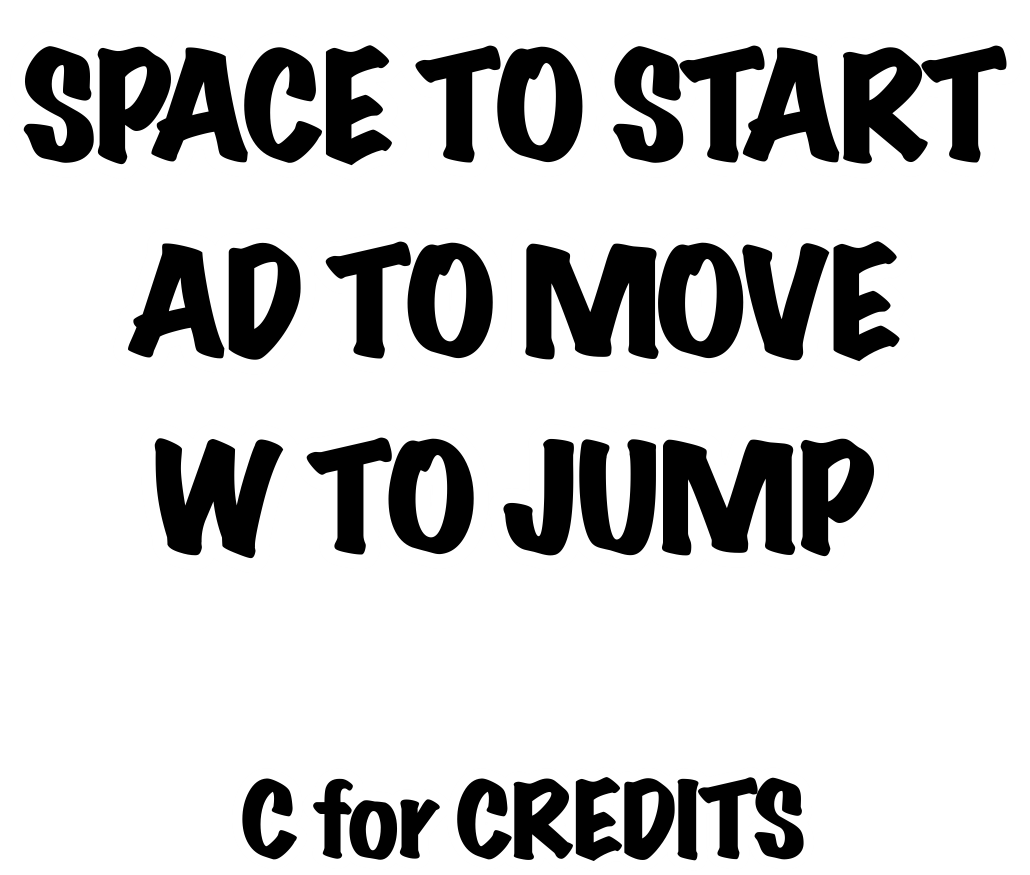
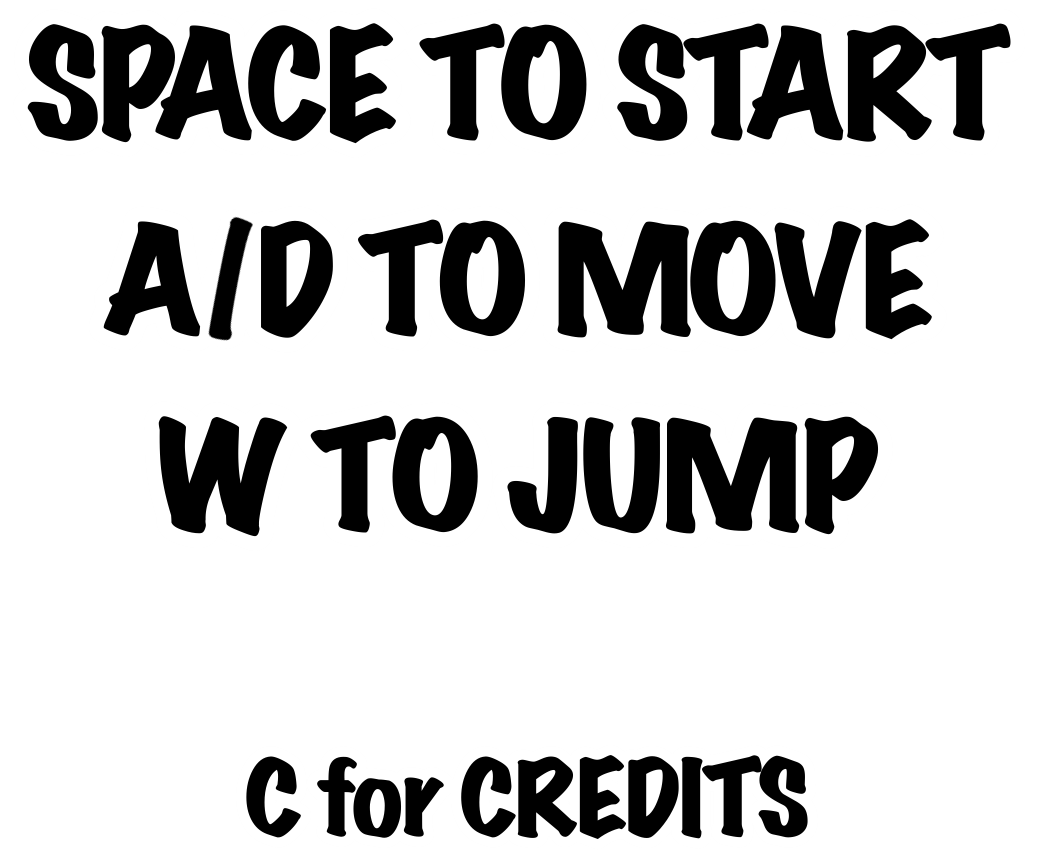
add game over scene

diff --git a/src/scenes/GameOver.js b/src/scenes/GameOver.js
@@ -1,0 +1,42 @@
+class GameOver extends Phaser.Scene {
+    constructor() {
+        super('gameOverScene');
+    }
+
+    create() {
+		this.waveGroup = this.physics.add.group()
+
+		this.shadow = this.add.sprite(0, 0, "shadow").setOrigin(0.5, 0.5)
+		this.shadow.setScale((window.innerHeight/378)/5)
+		this.shadow.setPosition(window.innerWidth / 2, (window.innerHeight / 4)*3)
+
+		this.deathSprite = this.add.physics.sprite(0,0,"playerDeath")
+		this.deathSprite.setScale((window.innerHeight/378)/5)
+		this.deathSprite.setPosition(this.shadow.x, this.shadow.y)
+
+		this.text = this.add.sprite(0, 0, "gameOver").setOrigin(0.5, 0.5)
+	    this.text.setScale((window.innerHeight/271)/5)
+		this.text.setPosition(window.innerWidth / 2, window.innerHeight / 4)
+
+		this.wave = new Wave(this, -6000, window.innerHeight,"greatWave", this.waveGroup)
+
+		
+        this.backKey = this.input.keyboard.addKey(Phaser.Input.Keyboard.KeyCodes.SPACE)
+
+		this.physics.add.collider(this.waveGroup, this.waveGroup,(obj1, obj2) => {
+			 
+		})
+    }
+
+    update(time, dt) {
+        if (Phaser.Input.Keyboard.JustDown(this.backKey)) {      
+          this.scene.start('menuScene')    
+        }
+
+		
+		//is.deathSprite.setVelocity(0)
+		this.deathSprite.update()
+		//is.deathSprite.setVelocity(0)
+		this.wave.update()
+    }
+}

diff --git a/src/scenes/Play.js b/src/scenes/Play.js
@@ -38,6 +38,9 @@ class Play extends Phaser.Scene {
 		this.debris = new Debris(this, 1000,  window.innerHeight-this.sand.displayHeight, this.staticGroup)
 
 		this.player = new Player(this, 200, window.innerHeight - (window.innerHeight / 6), this.objects)
+
+		this.warningSigns = this.add.sprite(0,0,'warningSigns').setPosition(window.innerWidth-(window.innerWidth-100), this.player.y-25).setScale(0.3)
+
 		this.wave = new Wave(this, -6000, window.innerHeight,"greatWave", this.waveGroup)
 
 
@@ -61,7 +64,7 @@ class Play extends Phaser.Scene {
 
 		this.physics.add.collider(this.player, this.waveGroup, (player, wave) => {
 			this.waveSFX.play()
-			this.scene.start('menuScene') //placeholder for what dying does
+			this.scene.start('gameOverScene') 
 		})
 
 

diff --git a/src/scenes/Load.js b/src/scenes/Load.js
@@ -28,7 +28,10 @@ class Load extends Phaser.Scene {
 		this.load.image('warningSigns', './assets/warningSigns.png')
 		this.load.image('mechSign', './assets/mechanicSign.png')
 	
-
+		// game over assets
+		this.load.image('playerDeath', './assets/playerDeath.png')
+		this.load.image('shadow', './assets/Shadow.png')
+		this.load.image('gameOver', './assets/GameOverText.png')
         // load spritesheet
         this.load.spritesheet('waveBackground', './assets/waveSheet.png', {
             frameHeight: 695,
@@ -44,6 +47,6 @@ class Load extends Phaser.Scene {
     }
 
     create() {
-        this.scene.start('menuScene');
+        this.scene.start('menuScene')
     }
 }

diff --git a/index.html b/index.html
@@ -15,6 +15,7 @@
 	<script src="./src/scenes/Credits.js"></script>
     <script src="./src/scenes/Menu.js"></script>
     <script src="./src/scenes/Play.js"></script>
+	<script src="./src/scenes/GameOver.js"></script>
     <script src="./src/main.js"></script>
 	<style>   
 	     

diff --git a/src/main.js b/src/main.js
@@ -21,7 +21,7 @@ let config = {
 			autoCenter: Phaser.Scale.CENTER_BOTH,
 		},
 	},
-    scene: [Load, Credits, Menu, Play]
+    scene: [Load, Credits, Menu, Play,GameOver]
 	
 }
 
